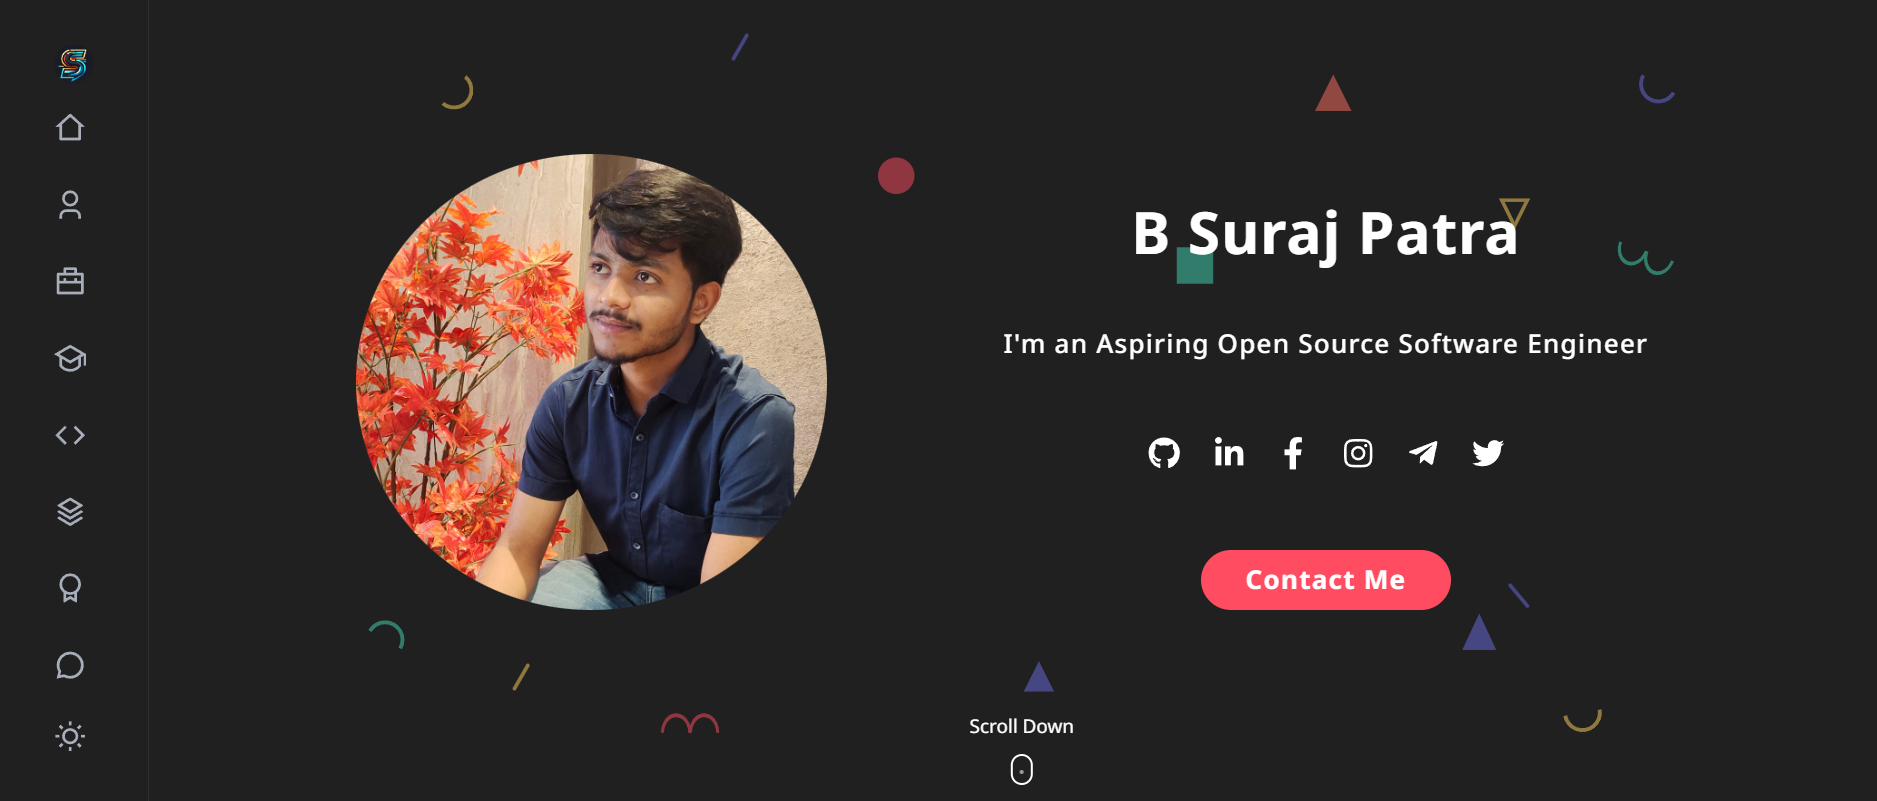
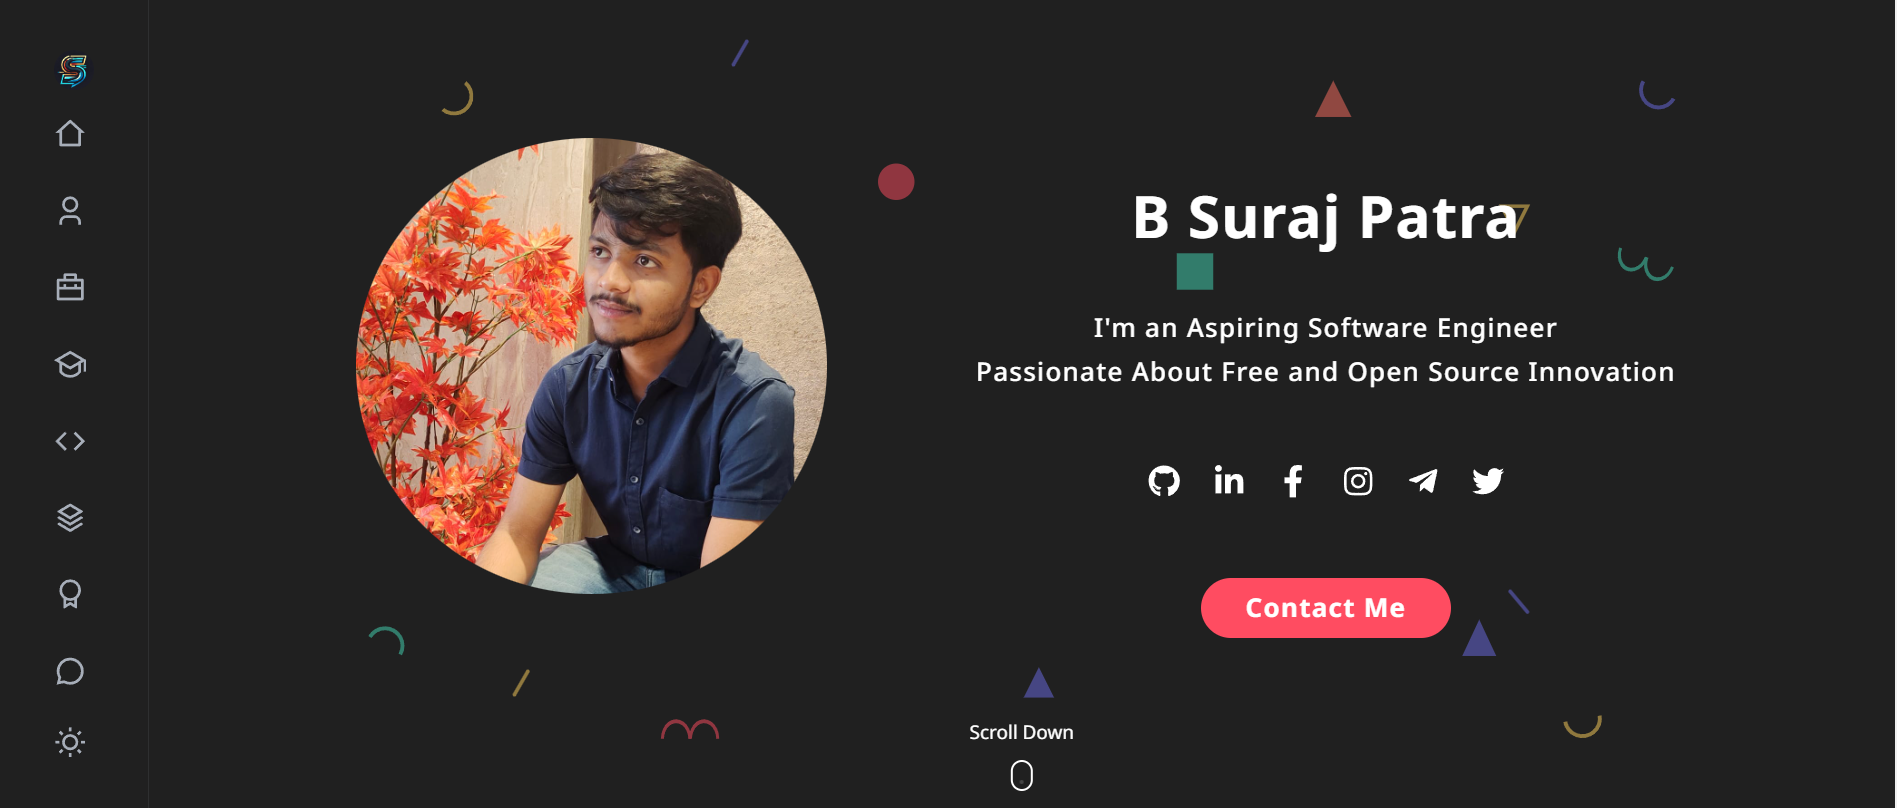
Certifications component complete

diff --git a/src/components/certifications/CertificationsMenu.js b/src/components/certifications/CertificationsMenu.js
@@ -1,19 +1,134 @@
-// import Cert1 from "../../assets/cert1.png"; // Replace with actual paths to your certification images
-// import Cert2 from "../../assets/cert2.png";
+import Salesforce from "../../assets/salesforce.png";
+import Git from "../../assets/Git.jpg";
+import CIP from "../../assets/cip.png";
+import GoogleIT from "../../assets/googleit.jpg";
+import IBMBack from "../../assets/ibmback.jpg";
+import MetaFront from "../../assets/MetaFront.jpg";
+import SAS from "../../assets/SAS.jpg";
+import NxtWave from "../../assets/nxtwave.png";
+import Lingua from "../../assets/lingua.jpg";
+import RedHat from "../../assets/redhat.jpg";
+import Spring from "../../assets/Spring.jpg";
+import be10x from "../../assets/be10x.jpg";
+import nptel from "../../assets/nptel java.jpg";
 
 const Menu = [
 	{
 		id: 1,
-		image: null,
-		title: "Certification Title 1",
-		description: "Description for Certification 1."
+		title: "Git and GitHub",
+		company: "PW Skills",
+		certificate: {
+			src: Git,
+			style: { width: '100%', height: 'auto' }
+		}
 	},
 	{
 		id: 2,
-		image: null,
-		title: "Certification Title 2",
-		description: "Description for Certification 2."
+		title: "Salesforce Certified AI Associate",
+		company: "Salesforce",
+		certificate: {
+			src: Salesforce,
+			style: { width: '100%', height: 'auto' }
+		}
 	},
+	{
+		id:3,
+		title:"Critical Infrastructure Protection",
+		company: "OPSWAT Academy",
+		certificate:{
+			src: CIP,
+			style: { width: '100%', height: 'auto' }
+		}
+	},
+	{
+		id: 4,
+		title: "IT Support Professional",
+		company: "Google - Coursera",
+		certificate:{
+			src: GoogleIT,
+			style: { width: '100%', height: 'auto' }
+		}
+	},
+	{
+		id: 5,
+		title : " Back-end JavaScript Developer Professional",
+		company: "IBM - Coursera",
+		certificate:{
+			src: IBMBack,
+			style: { width: '100%', height: 'auto' }
+		}
+	},
+	{
+		id : 6,
+		title: "Front-end Developer",
+		company: "Meta - Coursera",
+		certificate:{
+			src: MetaFront,
+			style: { width: '100%', height: 'auto' }
+		}
+	},
+	{
+		id:7,
+		title:"SAS Statistical Business Analyst",
+		company:"SAS - Coursera",
+		certificate:{
+			src: SAS,
+			style: { width: '100%', height: 'auto' }
+		}
+	},
+	{
+		id: 8,
+		title: "AI for Students: Build Your Own Generative AI Model",
+		company: "NxtWave",
+		certificate:{
+			src: NxtWave,
+			style: { width: '100%', height: 'auto' }
+		}
+	},{
+		id: 9,
+		title: "Linguaskill General - English Language Proficiency",
+		company: "Cambridge University Press and Assessment",
+		certificate:{
+			src: Lingua,
+			style: { width: '100%', height: 'auto' }
+		}
+	},
+	{
+		id: 10,
+		title: "Red Hat Academy - Program Learner",
+		company: "Red Hat",
+		certificate:{
+			src: RedHat,
+			style: { width: '100%', height: 'auto' }
+		}
+	},
+	{
+		id: 11,
+		title: "Spring Framework",
+		company: "LearnQuest - Cousera",
+		certificate:{
+			src: Spring,
+			style: { width: '100%', height: 'auto' }
+		}
+	},
+	{
+		id: 12,
+		title: "AI Tools Workshop",
+		company: "be10x",
+		certificate:{
+			src: be10x,
+			style: { width: '100%', height: 'auto' }
+		}
+	},
+	{
+		id: 13,
+		title: "Programming in JAVA",
+		company: "NPTEL",
+		certificate:{
+			src: nptel,
+			style: { width: '100%', height: 'auto' }
+		}
+	}
 ];
 
 export default Menu;

diff --git a/src/components/certifications/Certifications.css b/src/components/certifications/Certifications.css
@@ -8,70 +8,86 @@
 }
 
 .certifications__item {
-    background: #e0f2f1; /* Light Teal */
+    background: #80deea; /* Light Teal */
     padding: 1.5rem;
     border-radius: 12px;
     box-shadow: 0 4px 8px rgba(0, 0, 0, 0.1);
     margin-bottom: 1rem;
     display: flex;
-    justify-content: space-between; /* Align items to the edges */
-    align-items: center; /* Center vertically */
-    transition: transform 0.3s ease-in-out;
-}
-
-.certifications__item:hover {
-    transform: translateY(-5px);
+    align-items: flex-start;
+    position: relative;
+    gap: 1rem;
 }
 
 .certifications__info {
+    flex-grow: 1;
     display: flex;
-    flex-direction: column; /* Stack title and company */
+    flex-direction: column;
 }
 
 .certifications__title {
     font-size: 1.25rem;
     font-weight: bold;
-    color: #00796b; /* Dark Teal */
+    color: #004d40; /* Dark Teal for title */
 }
 
 .certifications__company {
     font-size: 1rem;
-    color: #004d40; /* Medium Teal */
+    color: #00332e; /* Darker Teal for company name */
     margin: 0.5rem 0;
 }
 
+.certifications__actions {
+    position: absolute;
+    top: 1.5rem;
+    right: 1.5rem;
+}
+
 .certifications__view-button {
-    background-color: #ff6f61; /* Coral */
-    color: white;
+    background-color: black; /* Black button */
+    color: rgb(255, 255, 255); /* White text */
     border: none;
     padding: 0.5rem 1rem;
     border-radius: 5px;
     cursor: pointer;
     transition: background-color 0.3s;
+    width: 130px;
+    text-align: center;
 }
 
 .certifications__view-button:hover {
-    background-color: #ff4c40; /* Darker Coral for hover */
+    background-color: rgba(255, 255, 255, 0.1); /* Slightly lighter on hover */
 }
 
-.certifications__certificate-container {
+.certifications__item--expanded {
+    flex-direction: column;
+    align-items: stretch;
+}
+
+.certifications__dropdown {
+    width: 100%;
     margin-top: 1rem;
-    position: relative;
+    display: flex;
+    justify-content: center;
+    animation: fadeIn 0.3s ease-out;
+}
+
+@keyframes fadeIn {
+    from {
+        opacity: 0;
+        transform: scaleY(0.8);
+    }
+    to {
+        opacity: 1;
+        transform: scaleY(1);
+    }
 }
 
 .certifications__certificate-image {
-    max-width: 100%;
-    height: auto;
+    max-width: 50%;
+    max-height: 300px;
+    object-fit: contain;
     border-radius: 8px;
-}
-
-.close-certificate {
-    position: absolute;
-    top: 0;
-    right: 0;
-    background: transparent;
-    border: none;
-    font-size: 1.5rem;
-    cursor: pointer;
-    color: #00796b; /* Dark Teal */
+    box-shadow: 0 4px 10px rgba(0, 0, 0, 0.15);
+    margin: 0 auto;
 }

diff --git a/src/components/certifications/Certifications.jsx b/src/components/certifications/Certifications.jsx
@@ -6,13 +6,8 @@ const Certifications = () => {
 	const [items, setItems] = useState(Menu);
 	const [showCertificate, setShowCertificate] = useState(null);
 
-	// Function to toggle certificate display
 	const toggleCertificate = (id) => {
-		if (showCertificate === id) {
-			setShowCertificate(null);
-		} else {
-			setShowCertificate(id);
-		}
+		setShowCertificate(prevId => prevId === id ? null : id);
 	};
 
 	return (
@@ -22,33 +17,33 @@ const Certifications = () => {
 			<ul className="certifications__list">
 				{items.map((elem) => {
 					const { id, title, company, certificate } = elem;
+					const isActive = showCertificate === id;
 
 					return (
-						<li className="certifications__item" key={id}>
+						<li 
+							className={`certifications__item ${isActive ? 'certifications__item--expanded' : ''}`} 
+							key={id}
+						>
 							<div className="certifications__info">
 								<h3 className="certifications__title">{title}</h3>
 								<span className="certifications__company">{company}</span>
 							</div>
-							<button 
-								className="certifications__view-button" 
-								onClick={() => toggleCertificate(id)}
-							>
-								{showCertificate === id ? "Hide Certificate" : "View Certificate"}
-							</button>
+							<div className="certifications__actions">
+								<button 
+									className="certifications__view-button" 
+									onClick={() => toggleCertificate(id)}
+								>
+									{isActive ? "Hide Certificate" : "View Certificate"}
+								</button>
+							</div>
 
-							{showCertificate === id && certificate && (
-								<div className="certifications__certificate-container">
+							{isActive && certificate && (
+								<div className="certifications__dropdown">
 									<img 
 										src={certificate.src}
 										alt={`${title} Certificate`}
 										className="certifications__certificate-image"
 									/>
-									<button 
-										className="close-certificate"
-										onClick={() => setShowCertificate(null)}
-									>
-										×
-									</button>
 								</div>
 							)}
 						</li>

diff --git a/src/components/home/Home.jsx b/src/components/home/Home.jsx
@@ -14,7 +14,7 @@ const Home = () => {
                 </div>
                 <div className="right">
                     <h1 className="home__name">B Suraj Patra</h1>
-                    <span className="home__education">I'm an Aspiring Open Source Software Engineer</span>
+                    <span className="home__education">I'm an Aspiring Software Engineer <br/>Passionate About Free and Open Source Innovation</span>
                     <HeaderSocials />
                     <a href="#contact" className="btn"> Contact Me</a>
                 </div>
